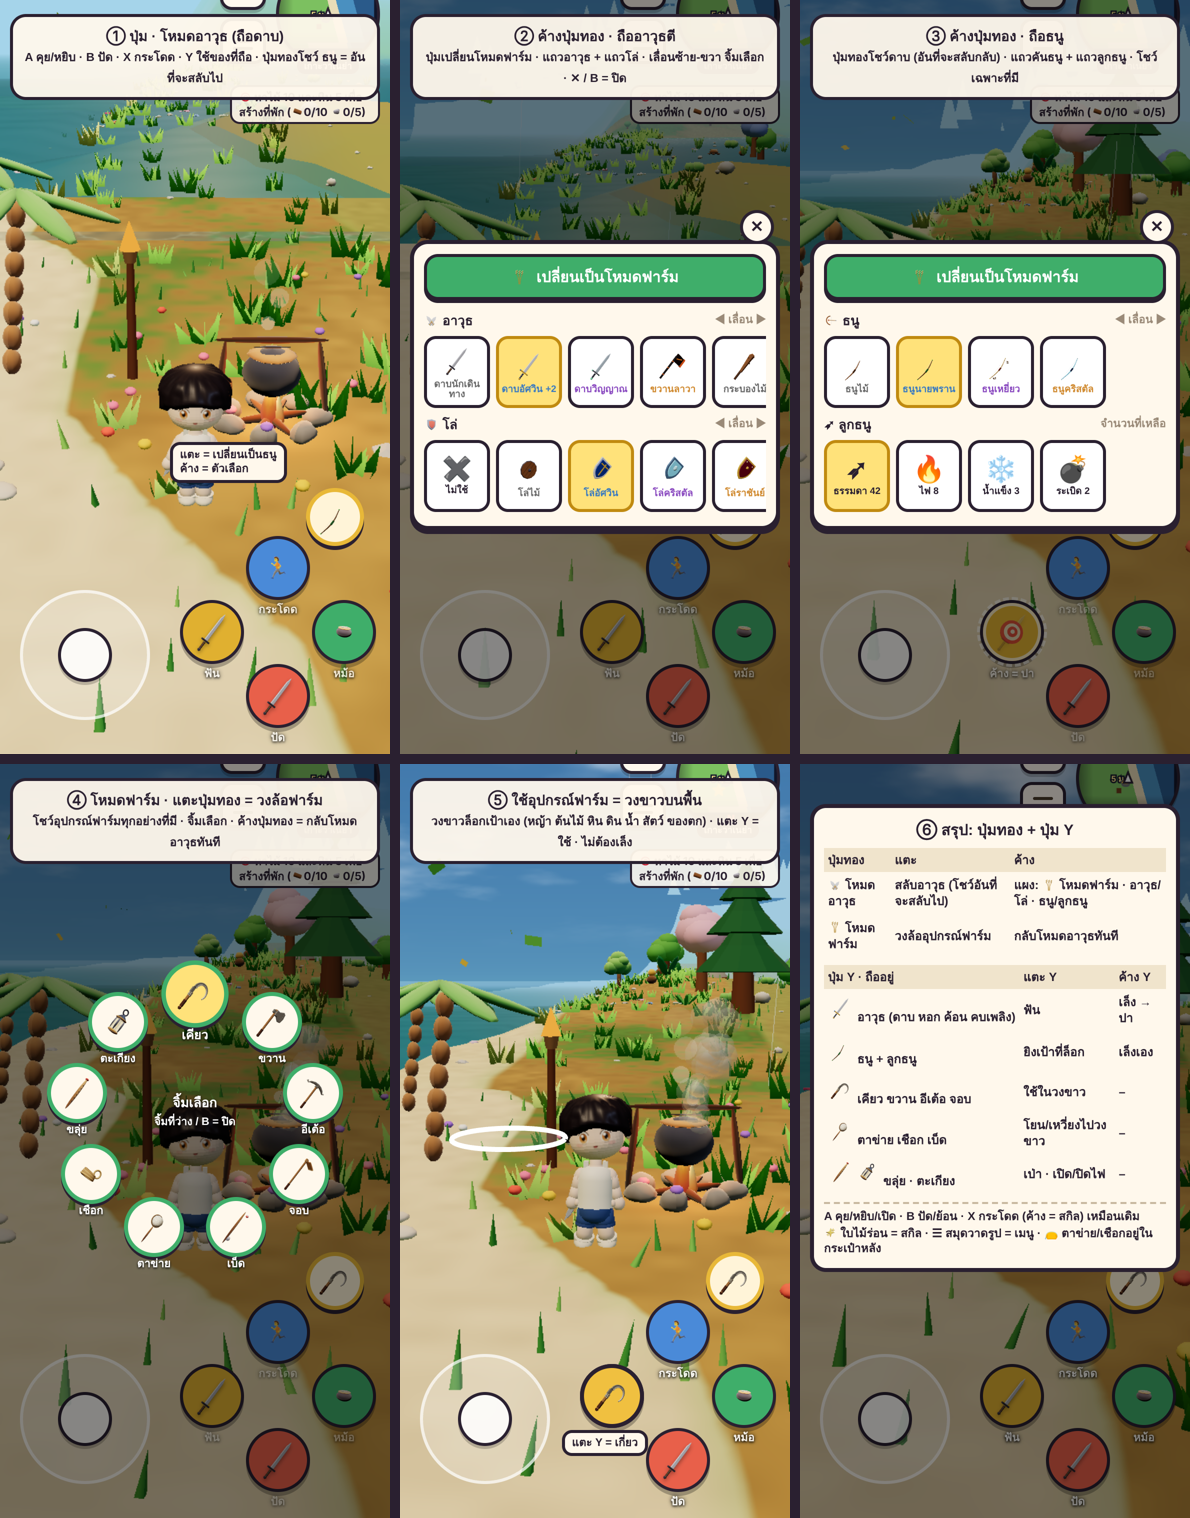
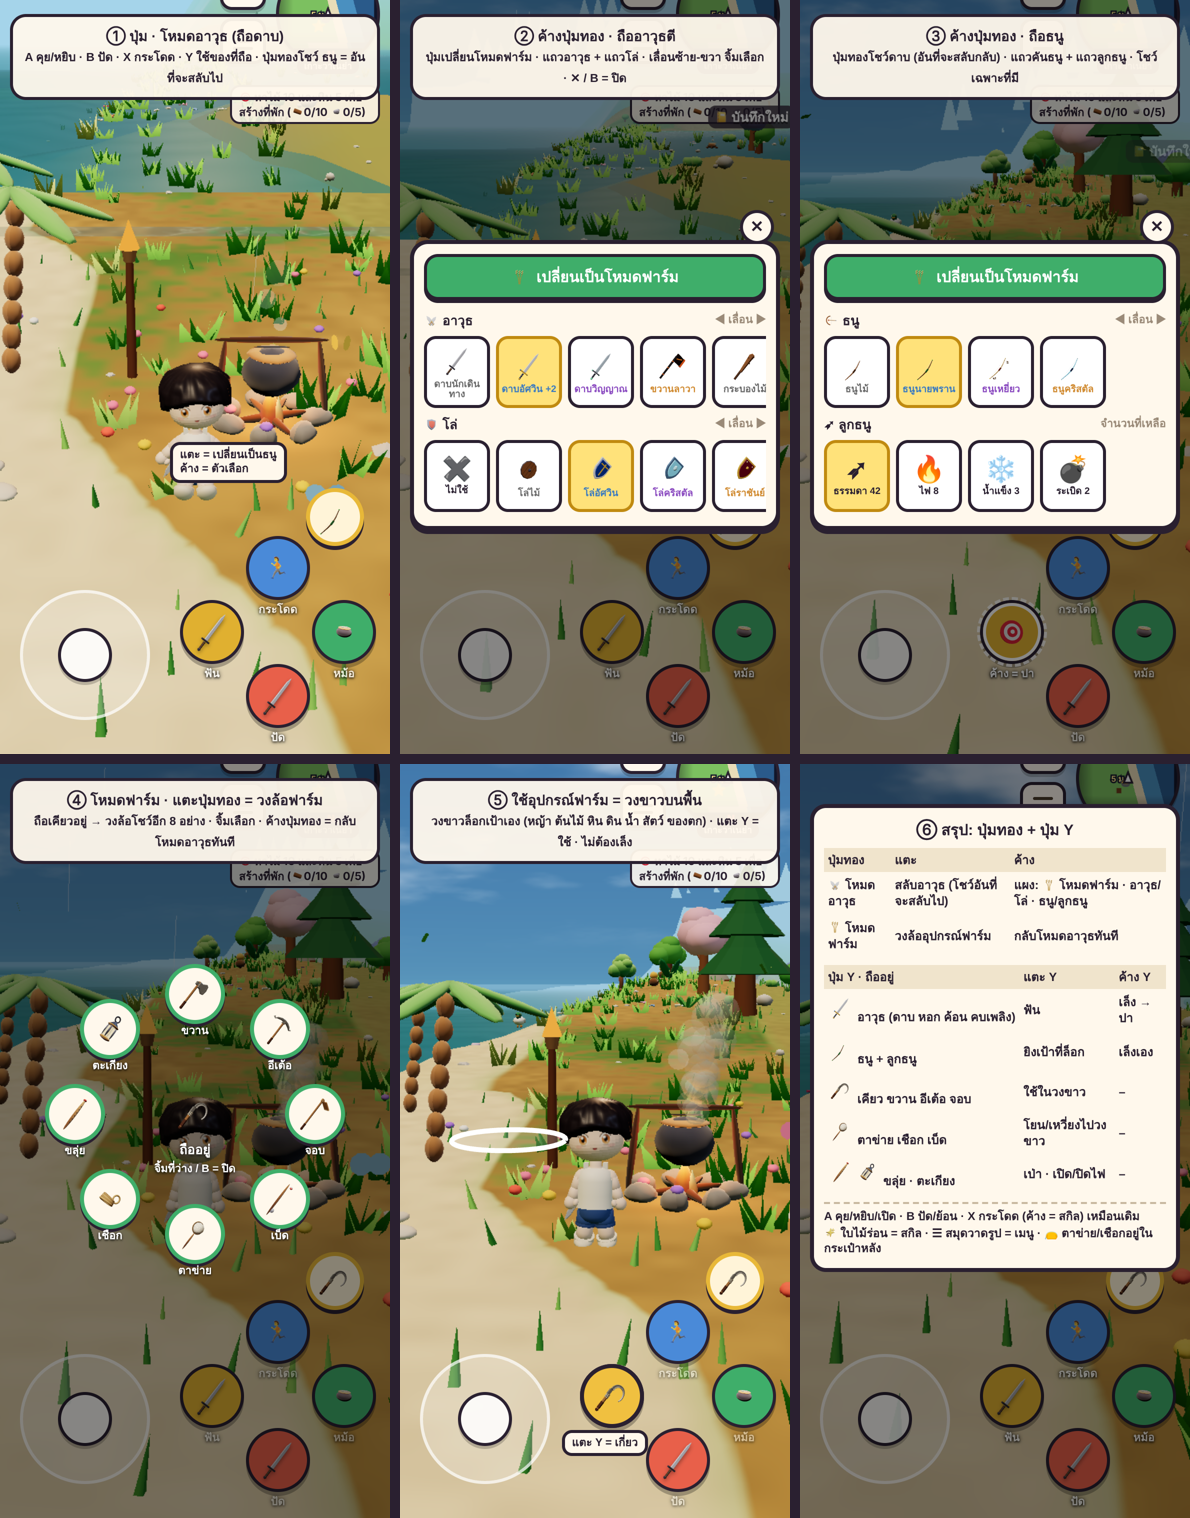
docs(newgame): farm wheel shows the other 8 tools (the one in hand sits in the middle) · backup kept
Claude-Session: https://claude.ai/code/session_01GPWeNez232vT9ersFNk7wt

diff --git a/newgame/docs/backup/plan-buttons-20261124-10.md b/newgame/docs/backup/plan-buttons-20261124-10.md
@@ -1,0 +1,42 @@
+# แผนปรับปุ่ม + อุปกรณ์ (ตกลงกับผู้ออกแบบ · 24 พ.ย. 2026) — ยังไม่ได้ทำ
+
+> ไฟล์นี้คือ **ข้อตกลงล่าสุด** · ของเดิมก่อนแก้อยู่ `docs/backup/plan-buttons-*.md` · สถานะปุ่มตอนนี้ดู `docs/CONTROLS.md`
+> ภาพสรุปล่าสุด (6 ช่อง · 24 พ.ย.): `docs/art/buttons-plan-summary.png` · ภาพเก่า: `docs/art/buttons-wheel-summary.png` · `ytools-ground-circle-mock.png` · `ytools-palm-mock.png` · `rod-hold-mock.png` · `sickle-hold-mock.png` · `hip-pouch-back-mock.png`
+
+## ตกลงแล้ว (ข้อ 5–7 ยังเป็นข้อเสนอ · ดูด้านล่าง)
+1. **A B X ไม่เปลี่ยน** (A = คำสั่งตามสิ่งตรงหน้า · B = ปัด/ย้อน · X = กระโดด/สกิล)
+2. **Y = ใช้ของที่ถือ** ทุกอย่างปุ่มเดียว
+   | ถืออยู่ | แตะ Y | ค้าง Y |
+   |---|---|---|
+   | อาวุธถือ | ฟัน | เล็ง → ปา (เหมือนเดิม) |
+   | ธนู | ยิงเป้าที่ล็อก | เล็งเอง (เหมือนเดิม) |
+   | ขวาน · เคียว · อีเต้อ · จอบ · เบ็ด · ตาข่าย · เชือก | ใช้กับเป้าใน **วงขาวบนพื้น** (ล็อกเอง · ไม่มี FPS) | – |
+3. **อุปกรณ์ฟาร์ม (ขวาน เคียว อีเต้อ จอบ เบ็ด ตาข่าย เชือก + ขลุ่ย) ใช้วิธีเดียวกันหมด** (ขลุ่ย: แตะ Y = เปิดโหมดเป่าเหมือนเดิม · ตะเกียง: แตะ Y = เปิด/ปิดไฟ · สองอย่างนี้ไม่มีวงขาว) (ไม่แบ่งกลุ่ม · ไม่มีเลือกอัตโนมัติ) · ระยะ: ขวาน/เคียว/อีเต้อ/จอบ ~2 ม. · เบ็ด 8 · ตาข่าย 10 · เชือก 15
+4. **ค้อน = อาวุธ** (ผู้ออกแบบ: ค้อนน่าจะเป็นอาวุธ) · ค้อนไม้/ค้อนเหล็ก → อาวุธมือเดียว ⚔ 7/15 เท่าเดิม · ร้าน/คราฟ/ดรอปเหมือนเดิม · ทุบหินใช้อีเต้ออย่างเดียว
+5. **ปุ่มทองปุ่มเดียว** แทน `#bGear` `#bSwap` `#bFarm`: แตะ = สลับกับของก่อนหน้าในกลุ่มเดียวกัน (อาวุธ ↔ อาวุธ · ฟาร์ม ↔ ฟาร์ม) · ค้าง = **วงล้อ 8 ช่อง** (เปิดค้าง · จิ้มเลือก · จิ้มที่ว่าง/B = ปิด · เกมหยุดชั่วคราว)
+5b. **ปุ่มทอง แบบล่าสุด (ผู้ออกแบบ 24 พ.ย.)** — แทนข้อ 5:
+   | โหมดตอนนี้ | แตะ | ค้าง |
+   |---|---|---|
+   | ⚔ อาวุธ | สลับไปอาวุธอีกอัน · ปุ่มโชว์ไอคอน **อันที่จะสลับไป** (ถือดาบ → โชว์ธนู) | **แผงตัวเลือก** (ดูด้านล่าง) |
+   | 🌾 ฟาร์ม | วงล้ออุปกรณ์ฟาร์ม (อาวุธเลือกไม่ได้) | **เปลี่ยนเป็นโหมดอาวุธทันที** ไม่มีวงล้อ · ค่อยเลือกอาวุธทีหลัง |
+   - วงล้อฟาร์มโชว์อุปกรณ์ฟาร์มทุกอย่างที่มี (ไม่ต้องจัดช่อง)
+   - **ค้างในโหมดอาวุธ = แผงตัวเลือก** (ผู้ออกแบบ 24 พ.ย.):
+     1. ปุ่ม 🌾 เปลี่ยนเป็นโหมดฟาร์ม
+     2. ถืออาวุธตี: แถวอาวุธ + แถวโล่ (เลื่อนซ้าย-ขวา · จิ้มเลือก)
+     3. ถือธนู: แถวคันธนู + แถวลูกธนู (เลื่อนซ้าย-ขวา · จิ้มเลือก) · **ลูกธนูโชว์เฉพาะชนิดที่มี** (ไม่โชว์ 0)
+     - ภาพตัวอย่าง: `docs/art/weapon-hold-panel-mock.png`
+   - ค้างในโหมดฟาร์ม = เปลี่ยนเป็นโหมดอาวุธทันที (ไม่มีแผง)
+6. **8 ช่องหลัก** ผู้เล่นจัดเองในกระเป๋า (อาวุธหรืออุปกรณ์ฟาร์มก็ได้) · โล่ใช้คู่อาวุธมือเดียวอัตโนมัติ · ลูกธนูเปลี่ยนในกระเป๋า
+7. **ปุ่มที่ใช้ไม่ได้ตอนนั้น = จาง** (ในเมือง ขี่น้อง ว่ายน้ำ) ตำแหน่งไม่เปลี่ยน
+8. **ภาพ**: ตาข่ายในมือ = ลูกกลมเล็ก (ในฝ่ามือ) · เชือก = วงเล็กวงเดียว · โยนตาข่าย = กางกลางอากาศครอบสัตว์ · เชือก = พุ่งเป็นเส้น · **กระเป๋าหนังใบเล็กที่เข็มขัดด้านหลัง** (ไม่มีของโผล่) · ถือเฉพาะตอนใช้ (เหมือนดาบ) · ปุ่มโชว์ **รูปอุปกรณ์ดินปั้นจริง** ไม่ใช่ emoji
+9. เบ็ดเก็บหายเมื่อไม่ใช้ (ไม่เสียบหลัง)
+
+## ยังต้องตัดสินใจ (ผู้ออกแบบกำลังคิด · อย่าเริ่มทำ)
+- ✅ แยกประเภทครบแล้ว (24 พ.ย. · รายละเอียด `docs/EQUIPMENT.md`):
+  - ⚔ อาวุธ: อาวุธประชิด · ค้อน · 🔥 คบเพลิง
+  - 🏹 ธนู + ลูกธนู
+  - 🌾 อุปกรณ์ฟาร์ม: ขวาน เคียว อีเต้อ จอบ เบ็ด ตาข่าย เชือก ขลุ่ย 🏮 ตะเกียง
+  - ✨ สกิล: 🍃 ใบไม้ร่อน
+  - ☰ เมนู: 🖍 สมุดวาดรูป
+- **ระบบปุ่มใหม่ทั้งหมด (ข้อ 5–7) ยังไม่ตัดสินใจ** · แบ่งปล่อยเป็นรอบหรือไม่ ยังไม่ตัดสิน
+- (ข้อเสนอเดิม: รอบ 1 = ปุ่มทอง + วงล้อ + ปุ่มจาง · รอบ 2 = Y วงขาว + โมเดลตาข่าย/เชือก/กระเป๋า + ค้อน + ไอคอนดินปั้น)

diff --git a/newgame/docs/plan-buttons.md b/newgame/docs/plan-buttons.md
@@ -19,7 +19,7 @@
    |---|---|---|
    | ⚔ อาวุธ | สลับไปอาวุธอีกอัน · ปุ่มโชว์ไอคอน **อันที่จะสลับไป** (ถือดาบ → โชว์ธนู) | **แผงตัวเลือก** (ดูด้านล่าง) |
    | 🌾 ฟาร์ม | วงล้ออุปกรณ์ฟาร์ม (อาวุธเลือกไม่ได้) | **เปลี่ยนเป็นโหมดอาวุธทันที** ไม่มีวงล้อ · ค่อยเลือกอาวุธทีหลัง |
-   - วงล้อฟาร์มโชว์อุปกรณ์ฟาร์มทุกอย่างที่มี (ไม่ต้องจัดช่อง)
+   - วงล้อฟาร์มโชว์อุปกรณ์ฟาร์มที่มี **ยกเว้นอันที่ถืออยู่** (มีครบ 9 = วง 8 ช่อง · อันที่ถืออยู่โชว์กลางวง) · ไม่ต้องจัดช่อง
    - **ค้างในโหมดอาวุธ = แผงตัวเลือก** (ผู้ออกแบบ 24 พ.ย.):
      1. ปุ่ม 🌾 เปลี่ยนเป็นโหมดฟาร์ม
      2. ถืออาวุธตี: แถวอาวุธ + แถวโล่ (เลื่อนซ้าย-ขวา · จิ้มเลือก)
